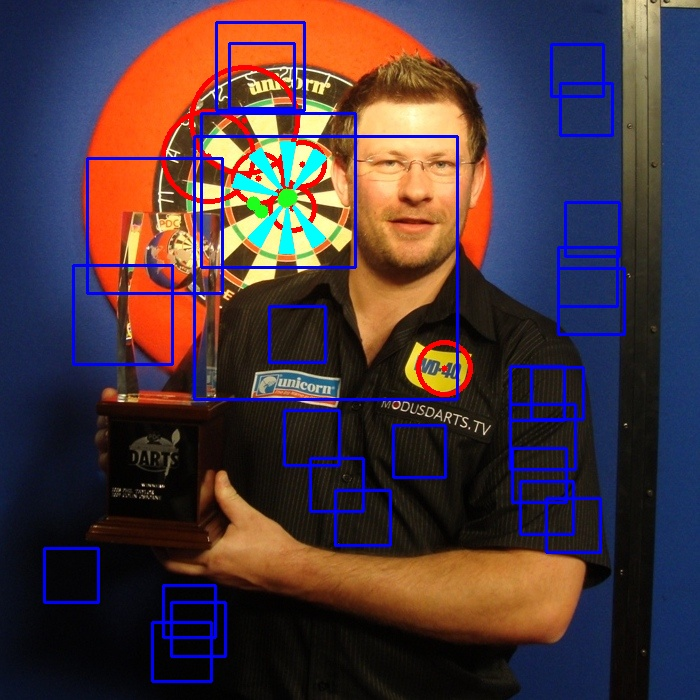
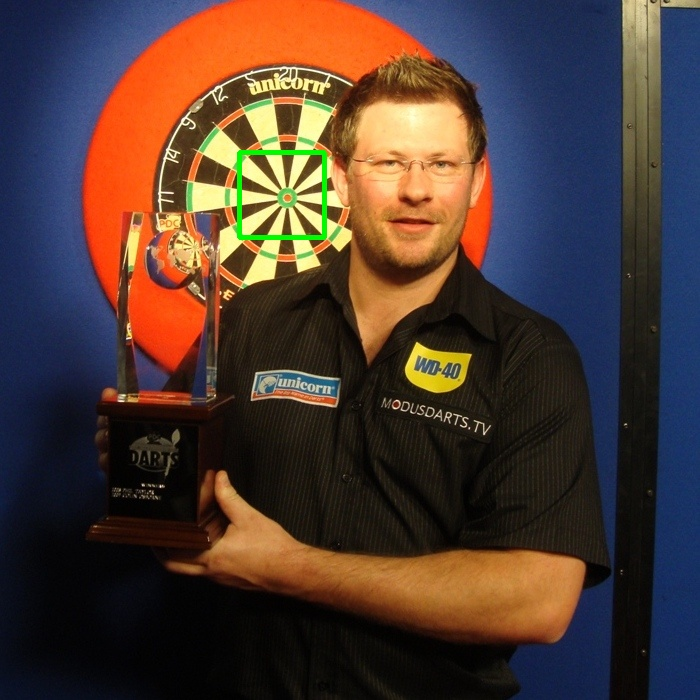
Fixed triangles

diff --git a/Assignment/task4/task.cpp b/Assignment/task4/task.cpp
@@ -49,6 +49,7 @@ class Detector {
         bool valueInRange(float, float, float);
         float angle(Point2f, Point2f, Point2f);
         vector<double> otsuMethod(Mat);
+        void drawLinesAndIntersections(vector<Vec2f>, int, int, int**);
         //void setLabel(Mat, const String, vector<Point>);
 
     public:
@@ -225,8 +226,13 @@ void Detector::houghTransformLine() {
     const int x = this->mag.rows;
     const int y = this->mag.cols;
 
-    int crosses[x][y];
+    //int crosses[x][y];
+    int **crosses;
     float sum = 0;
+
+    crosses = new int *[x];
+    for(int i = 0; i <x; i++)
+        crosses[i] = new int[y];
 
     for ( int i = 0; i < this->mag.rows; i++ ) {
         for( int j = 0; j < this->mag.cols; j++ ) {
@@ -266,10 +272,9 @@ void Detector::houghTransformLine() {
                     sum ++;
                 }
             }
-
         }
-
     }
+
     for ( int i = 0; i < workImage.rows; i++ ) {
         for( int j = 0; j < workImage.cols; j++ ) {
             // TODO: maybe change this to == 8 or some other
@@ -284,7 +289,37 @@ void Detector::houghTransformLine() {
         }
     }
 
+    //drawLinesAndIntersections(lines, x, y, crosses);
+
     return;
+}
+
+void Detector::drawLinesAndIntersections(vector<Vec2f> lines, int x, int y, int **crosses) {
+    for( size_t i = 0; i < lines.size(); i++ ) {
+        float rho = lines[i][0], theta = lines[i][1];
+        Point pt1, pt2;
+        double a = cos(theta), b = sin(theta);
+        double x0 = a*rho, y0 = b*rho;
+
+        pt1.x = cvRound(x0 + 1000*(-b));
+        pt1.y = cvRound(y0 + 1000*(a));
+        pt2.x = cvRound(x0 - 1000*(-b));
+        pt2.y = cvRound(y0 - 1000*(a));
+
+        line( this->overlay_image, pt1, pt2, Scalar(0,0,255), 1, 8 );
+    }
+
+    for ( int i = 0; i < x; i++ ) {
+        for( int j = 0; j < y; j++ ) {
+            if (crosses[i][j] > 0) {
+                Point2f center;
+                center.x = j;
+                center.y = i;
+                circle( this->overlay_image, center, 1, Scalar(0,255, 0), -1, 8, 0 );
+            }
+        }
+    }
+
 }
 
 
@@ -344,7 +379,7 @@ void Detector::ellipses() {
     for( int i = 0; i< contours.size(); i++ ) {
         Scalar color = Scalar( rng.uniform(0, 255), rng.uniform(0,255), rng.uniform(0,255) );
         // ellipse
-        ellipse( this->overlay_image, ellipses[i], Scalar(226, 43 ,138 ), 10, 8 );
+        ellipse( this->overlay_image, ellipses[i], Scalar(226, 43 ,138 ), 6, 8 );
 
         // rotated rectangle
         //Point2f rect_points[4];
@@ -431,7 +466,7 @@ void Detector::triangles() {
             }
             this->triangle_hits.push_back(triangle);
 
-            drawContours(this->overlay_image, contours, i, Scalar(255, 255, 0), CV_FILLED); // fill GREEN
+            drawContours(this->overlay_image, contours, i, Scalar(80, 80 ,255 ), CV_FILLED); // fill GREEN
         }
     }
 
@@ -564,13 +599,13 @@ void Detector::combineDectections() {
             avwidth += (ellipse_hit->size.width / 2);
             avheight += (ellipse_hit->size.height / 2);
         }
-        for (triangle_hit = this->triangle_hits.begin(); triangle_hit != this->triangle_hits.end(); ++triangle_hit) {
+        for (triangle_hit = triangle_score.begin(); triangle_hit != triangle_score.end(); ++triangle_hit) {
             avx += ((triangle_hit->points[0].x + triangle_hit->points[1].x + triangle_hit->points[2].x) / 3);
             avy += ((triangle_hit->points[0].y + triangle_hit->points[1].y + triangle_hit->points[2].y) / 3);
         }
 
-        avx = avx / (line_score.size() + circle_score.size() + ellipse_score.size() + triangle_hits.size());
-        avy = avy / (line_score.size() + circle_score.size() + ellipse_score.size() + triangle_hits.size());
+        avx = avx / (line_score.size() + circle_score.size() + ellipse_score.size() + triangle_score.size());
+        avy = avy / (line_score.size() + circle_score.size() + ellipse_score.size() + triangle_score.size());
         avwidth = (viola->width + avwidth) / (circle_score.size() + ellipse_score.size() + 1);
         avheight = (viola->height + avheight) / (circle_score.size() + ellipse_score.size() + 1);
 
@@ -740,8 +775,8 @@ int main( int argc, char** argv ) {
     detector.combineDectections();
 
 
-    detector.write_overlay_image(argv[2]);
-    //detector.write_detections_image(argv[2]);
+    //detector.write_overlay_image(argv[2]);
+    detector.write_detections_image(argv[2]);
 
     return 0;
 }
